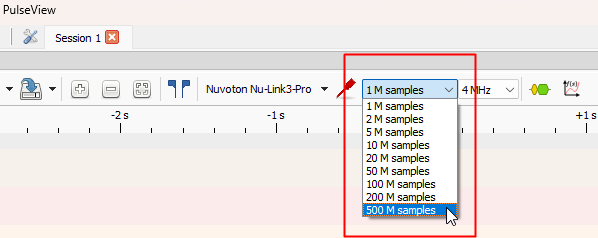
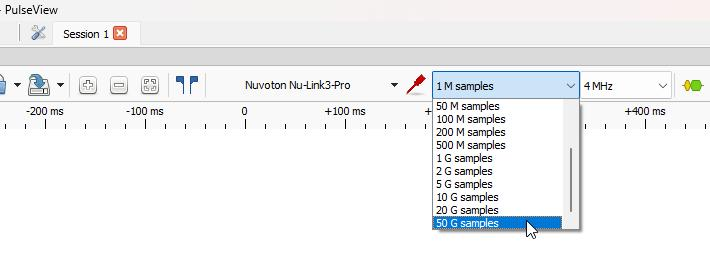
update nulink3 pulseview and sigrok cli

Changed region(s): [[0.0, 0.0882, 1.0, 1.0], [0.0, 0.0, 0.0903, 0.0588]]

diff --git a/README.md b/README.md
@@ -45,7 +45,9 @@ Here you can find tools to assist with programming, debugging, and analysis for 
 | **[NuTool-LCDView](https://www.nuvoton.com/tool-and-software/software-tool/application-specific/lcdview/)** | LCD monitoring tool | Windows | Proprietary | [Website](https://www.nuvoton.com/tool-and-software/software-tool/application-specific/lcdview/) |
 | **[NuTool-PinView](https://www.nuvoton.com/tool-and-software/software-tool/general/nutool/)** | Pin status monitoring tool | Windows | Proprietary | [Website](https://www.nuvoton.com/tool-and-software/software-tool/general/nutool/) |
 | **[NuTool-USB_to_Serial_Port](https://www.nuvoton.com/tool-and-software/software-tool/general/nutool/)** | USB to Serial Port pass-through (Monitor) | Windows | Proprietary | [Website](https://www.nuvoton.com/tool-and-software/software-tool/general/nutool/) |
-| **[Nu-Link PulseView](https://github.com/OpenNuvoton/pulseview)** | Logic Analyzer GUI based on open-source sigrok/PulseView project. | Windows | GPL v3 | [Setup Guide](./Documents/Nu-Link2_Nu-Link3_User_Manual/docs/06_additional_features/02_pulseview.md) |
+| **[Nu-Link3 PulseView](https://github.com/OpenNuvoton/pulseview)** | Logic Analyzer GUI based on open-source sigrok/PulseView project. | Windows | GPL v3 | [Setup Guide](./Documents/Nu-Link2_Nu-Link3_User_Manual/docs/06_additional_features/02_pulseview.md) |
+| **[Nu-Link3 sigrok-cli](https://github.com/OpenNuvoton/sigrok-cli/releases)** | Logic Analyzer CLI based on open-source sigrok/sigrok-cli project. | Windows | GPL v3 | [Guide](./Documents/Nu-Link2_Nu-Link3_User_Manual/docs/06_additional_features/03_sigrok_cli.md) |
+
 
 ### ☁ Cloud Assistant Tools
 

diff --git a/Documents/Nu-Link2_Nu-Link3_User_Manual/docs/06_additional_features/02_pulseview.md b/Documents/Nu-Link2_Nu-Link3_User_Manual/docs/06_additional_features/02_pulseview.md
@@ -81,7 +81,7 @@ Figure: The process of exporting these annotations for documentation or further 
 
 ### Performance Specifications
 
-The maximum capture length can be bounded by a configurable maximum sample count, selectable from **1M up to 500M samples**. The table below lists the record length obtained at the maximum sample count of 500M samples:
+The maximum capture length can be bounded by a configurable maximum sample count, selectable from **1M up to 50G samples**. The table below lists the record length obtained at the maximum sample count of 500M samples:
 
 <img src="../../media/nu-link3/NL3_PulseView/NL3_PulseView_sample_count.png" width="500">
 

diff --git a/Documents/Nu-Link2_Nu-Link3_User_Manual/docs/01_overview/02_nu-link3-pro.md b/Documents/Nu-Link2_Nu-Link3_User_Manual/docs/01_overview/02_nu-link3-pro.md
@@ -182,7 +182,7 @@ For Windows operating systems, please download and install the [Nu-Link_USB_Driv
 
 **Nu-Link firmware binary files can be found on the [Releases page](https://github.com/OpenNuvoton/Nuvoton_Tools/releases) on GitHub.**
 
-**Requirement: Nu-Link3 needs v3.22.7946r or above**
+**Requirement: Nu-Link3 needs v3.24 or above**
 
 Users can reprogram Nu-Link3 with another .bin file using the following instructions (Windows OS):
 
